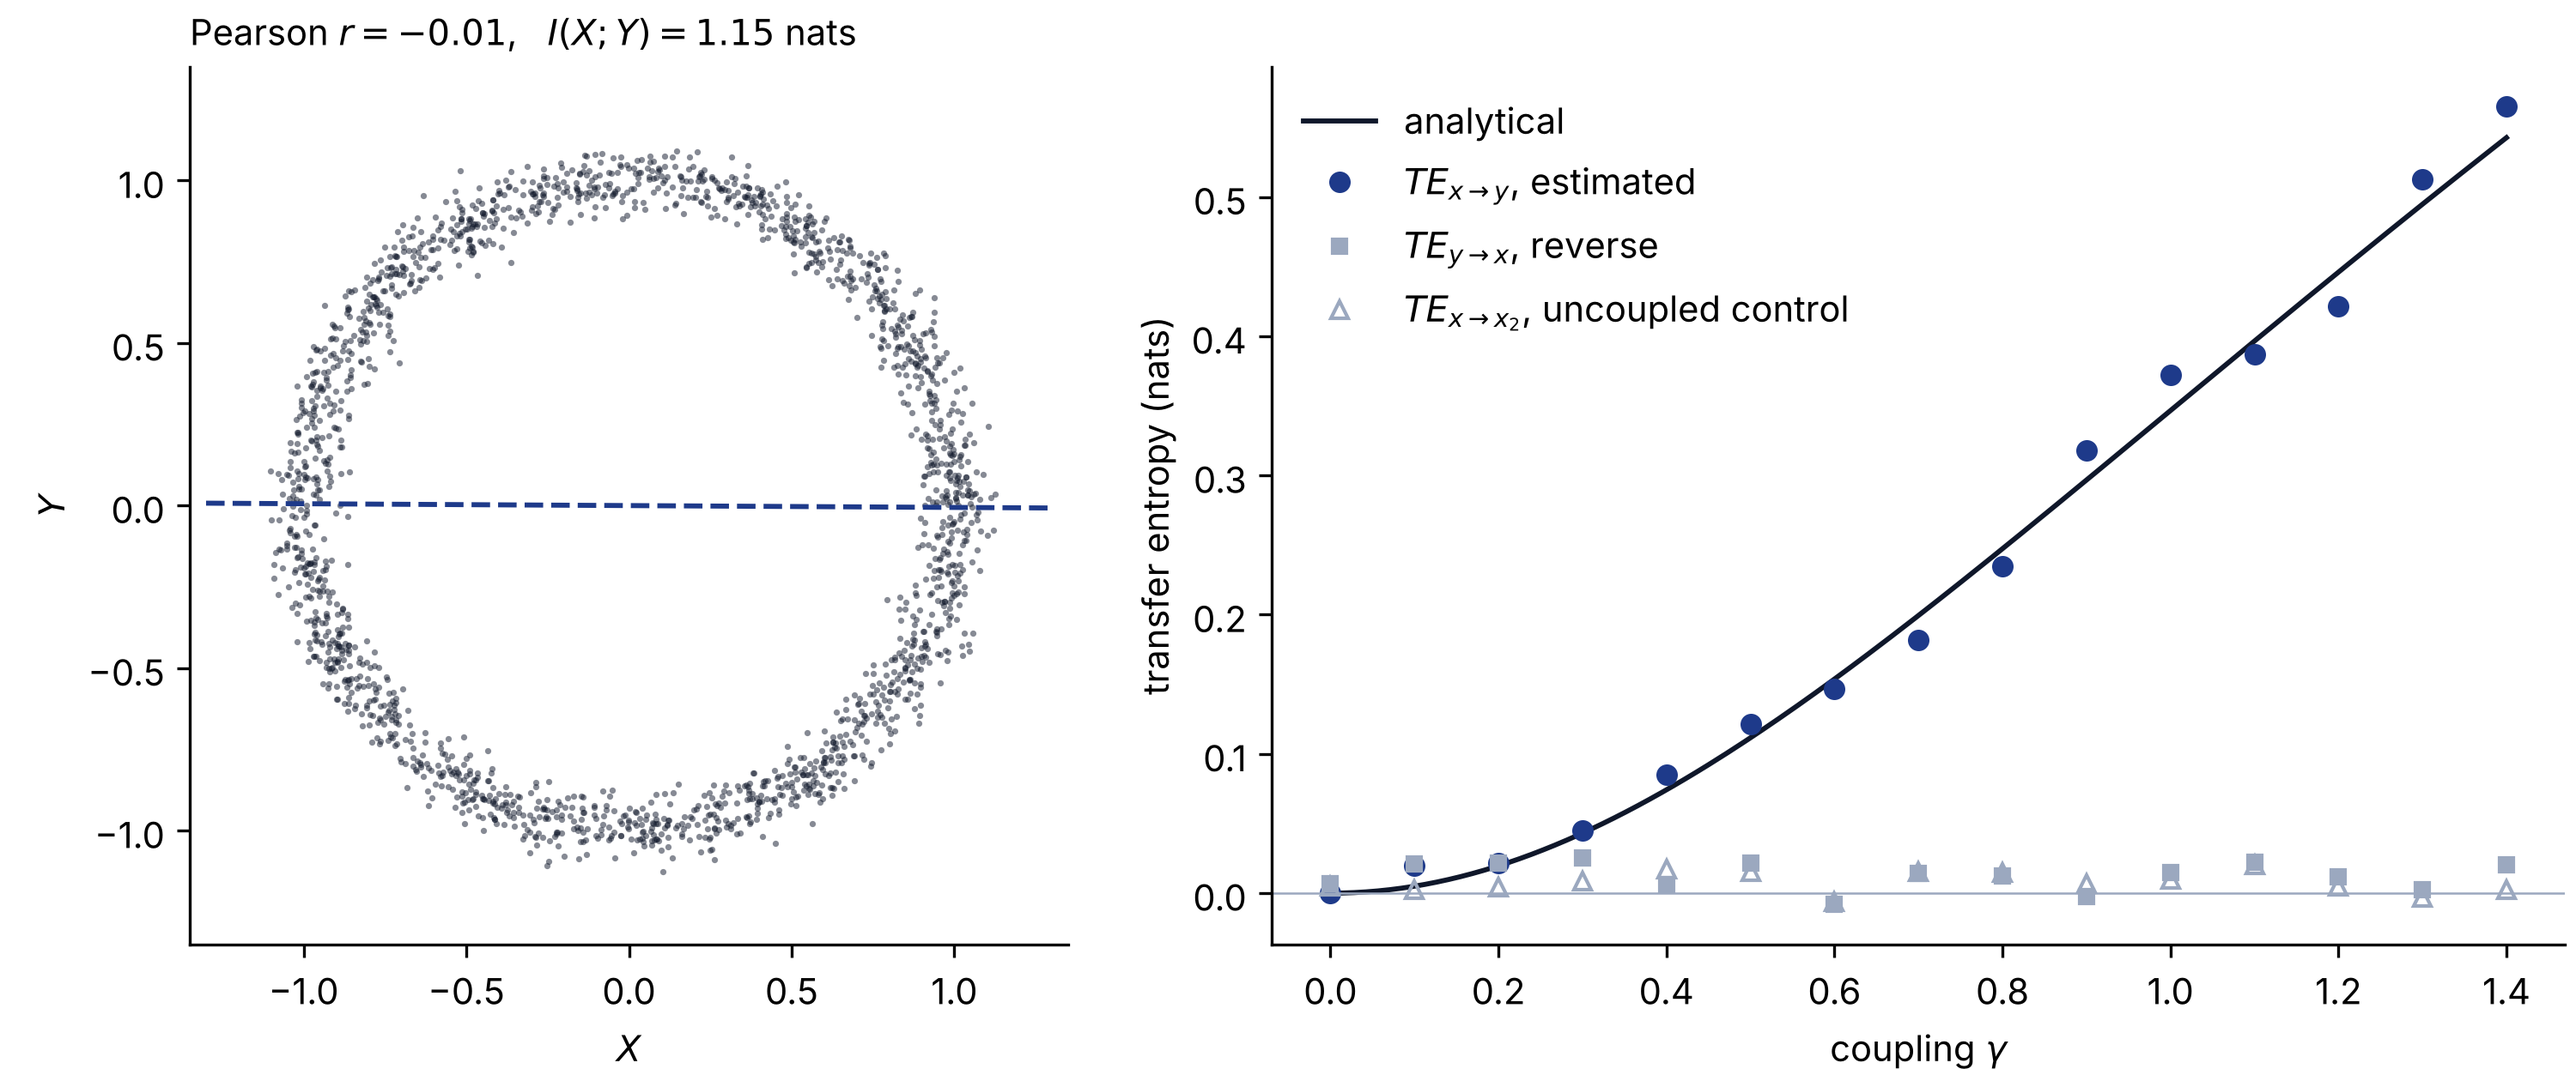
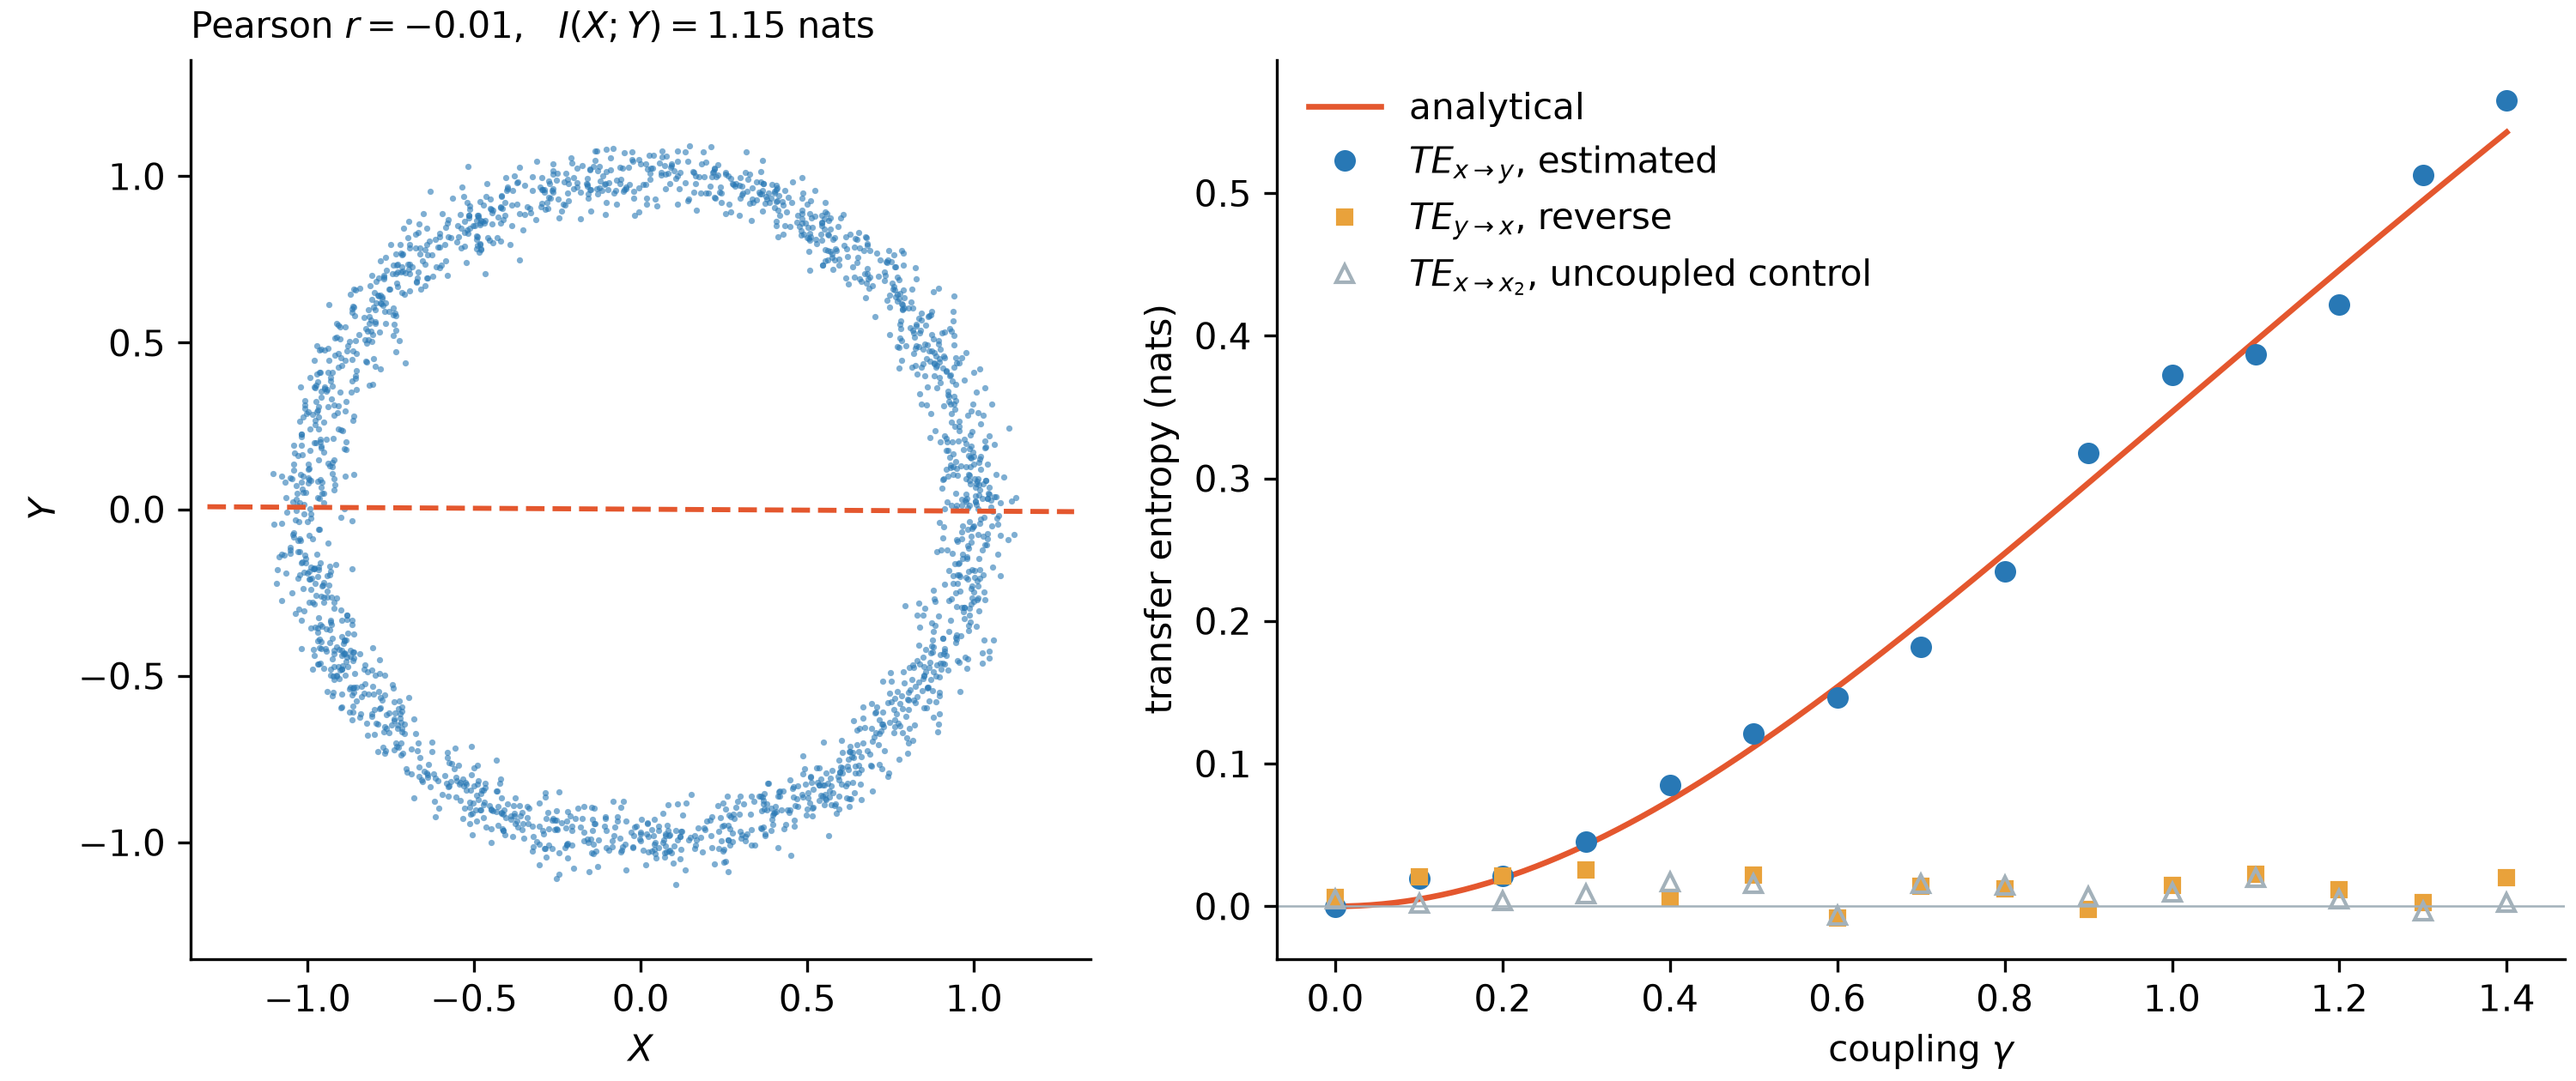
Petrol-blue palette, recoloured plots, Makefile
- Banner and accent move from navy to petrol blue, with matching greys
  in light and dark mode, and a matching favicon.
- Plots use one categorical palette (vermilion, blue, amber) with grey
  for context, following Datawrapper's colour advice; site SVGs, blog
  covers and post figures are regenerated with it.
- Social icons trimmed to GitHub, Scholar, LinkedIn, X, YouTube, Email.
- Makefile (local, build, push, clean) for WSL/Linux, noted in README.

diff --git a/docs/assets/stylesheets/site.css b/docs/assets/stylesheets/site.css
@@ -4,28 +4,36 @@
    ------------------------------------------------------------------ */
 :root,
 [data-md-color-scheme="default"] {
-  --st-bg: #f5f7fa;
-  --st-ink: #0f172a;
-  --st-muted: #4e5a70;
-  --st-line: #d8dee8;
+  --st-bg: #f5f8f9;
+  --st-ink: #13212b;
+  --st-muted: #51606b;
+  --st-line: #d6dee3;
   --st-card: #ffffff;
-  --st-soft: #edf1f6;
-  --st-accent: #1e3a8a;
-  --st-accent-dark: #93b4ff;
+  --st-soft: #ebf1f4;
+  --st-accent: #1d4e6b;
+  --st-accent-dark: #8cc3e0;
   --st-highlight: #c2410c;
+  /* Plot categories: same meaning in every figure. Distinct in lightness as
+     well as hue, so they stay apart for colour-blind readers. */
+  --st-c1: #e4572e;
+  --st-c2: #2878b5;
+  --st-c3: #e9a23b;
   --st-mono: var(--md-code-font-family, "IBM Plex Mono", ui-monospace, monospace);
 }
 
 [data-md-color-scheme="slate"] {
-  --st-bg: #0b1220;
-  --st-ink: #e6ebf4;
-  --st-muted: #9ba8bf;
-  --st-line: #222e45;
-  --st-card: #111a2c;
-  --st-soft: #17223a;
-  --st-accent: #93b4ff;
-  --st-accent-dark: #93b4ff;
+  --st-bg: #0b1820;
+  --st-ink: #e4ecf0;
+  --st-muted: #95a7b2;
+  --st-line: #1f3240;
+  --st-card: #10212d;
+  --st-soft: #152a38;
+  --st-accent: #8cc3e0;
+  --st-accent-dark: #8cc3e0;
   --st-highlight: #fb923c;
+  --st-c1: #ff7a52;
+  --st-c2: #5aa9e6;
+  --st-c3: #f2b85b;
 }
 
 /* Map the tokens onto Material's own variables. */
@@ -147,7 +155,7 @@ body > div[style*="position: fixed"] {
 .md-typeset a {
   text-decoration: none;
 }
-/* Hover keeps the navy and adds an underline, instead of switching hue. */
+/* Hover keeps the accent and adds an underline, instead of switching hue. */
 .md-typeset a:hover {
   color: var(--st-accent);
   text-decoration: underline;
@@ -277,15 +285,15 @@ body > div[style*="position: fixed"] {
    ------------------------------------------------------------------ */
 /* Home banner, pill navigation and introduction */
 .st-banner {
-  background-color: #14275c;
+  background-color: #163e55;
   background-image: radial-gradient(rgba(255, 255, 255, 0.08) 1px, transparent 1.4px),
-    linear-gradient(180deg, #1e3a8a 0%, #0f1f4d 100%);
+    linear-gradient(180deg, #1d4e6b 0%, #0f2e42 100%);
   background-size: 18px 18px, 100% 100%;
   color: #ffffff;
 }
 [data-md-color-scheme="slate"] .st-banner {
   background-image: radial-gradient(rgba(255, 255, 255, 0.06) 1px, transparent 1.4px),
-    linear-gradient(180deg, #172d6b 0%, #0b1220 100%);
+    linear-gradient(180deg, #183f57 0%, #0b1820 100%);
 }
 .st-banner__inner {
   max-width: 38rem;
@@ -307,7 +315,7 @@ body > div[style*="position: fixed"] {
   box-shadow: 0 6px 20px rgba(0, 0, 0, 0.25);
 }
 .st-banner__photo--placeholder {
-  background: #2c4fa3;
+  background: #2b6a8e;
   display: flex;
   align-items: center;
   justify-content: center;
@@ -341,7 +349,7 @@ body > div[style*="position: fixed"] {
   height: 2.2rem;
   border-radius: 50%;
   background: #ffffff;
-  color: #14275c;
+  color: #1d4e6b;
   display: flex;
   align-items: center;
   justify-content: center;
@@ -349,7 +357,7 @@ body > div[style*="position: fixed"] {
 }
 .st-banner__icons a:hover,
 .st-banner__icons a:focus-visible {
-  background: #dbe4ff;
+  background: #d6e8f2;
 }
 .st-banner__icons svg {
   width: 1rem;
@@ -376,7 +384,7 @@ body > div[style*="position: fixed"] {
   background: var(--st-card);
   border: 1px solid var(--st-line);
   border-radius: 999px;
-  box-shadow: 0 6px 18px rgba(15, 23, 42, 0.14);
+  box-shadow: 0 6px 18px rgba(19, 33, 43, 0.14);
 }
 .st-pill a {
   padding: 0.6rem 0.7rem;
@@ -408,7 +416,7 @@ body > div[style*="position: fixed"] {
   background: var(--st-card);
   border: 1px solid var(--st-line);
   border-radius: 999px;
-  box-shadow: 0 6px 18px rgba(15, 23, 42, 0.14);
+  box-shadow: 0 6px 18px rgba(19, 33, 43, 0.14);
   cursor: pointer;
   opacity: 0;
   visibility: hidden;

diff --git a/scripts/post_covers.py b/scripts/post_covers.py
@@ -6,7 +6,7 @@ Motivation
 Thumbnails for the list of posts on the Blog page. Each post names its
 cover in the front matter, as `cover: img/<name>-cover.png`,
 and the list shows it next to the title. The goal is one small, text-free
-picture per post that matches the navy banner of the site. It is pursued by
+picture per post that matches the petrol-blue banner of the site. It is pursued by
 drawing each post's central object on the banner gradient and dot texture.
 
 What it measures
@@ -37,19 +37,21 @@ from matplotlib.patches import FancyArrowPatch
 
 from euler_maruyama_sho import euler_maruyama_sho
 
-NAVY = "#1e3a8a"
-NAVY_DEEP = "#0f1f4d"
-LIGHT = "#93b4ff"
+PETROL = "#1d4e6b"
+PETROL_DEEP = "#0f2e42"
+LIGHT = "#ff7a52"
+SKY = "#8cc3e0"
+AMBER = "#f2b85b"
 OUT_DIR = Path(__file__).resolve().parents[1] / "docs" / "writing" / "posts" / "img"
 DIGIT = Path(__file__).resolve().parent / "data" / "mnist-test-00030.png"
 SIZE = (4.0, 3.0)  # 4:3, the aspect the Blog list crops to
 
 
 def banner_axes(fig):
-    """Navy diagonal gradient with a faint dot grid, and a clear axes on top."""
+    """Petrol-blue diagonal gradient with a faint dot grid, and a clear axes on top."""
     bg = fig.add_axes([0, 0, 1, 1])
     u, v = np.meshgrid(np.linspace(0, 1, 400), np.linspace(0, 1, 300))
-    cmap = LinearSegmentedColormap.from_list("banner", [NAVY, NAVY_DEEP])
+    cmap = LinearSegmentedColormap.from_list("banner", [PETROL, PETROL_DEEP])
     bg.imshow(0.5 * (u + v), cmap=cmap, extent=(0, 4, 0, 3), aspect="auto")
     gx, gy = np.meshgrid(np.arange(0.1, 4, 0.2), np.arange(0.1, 3, 0.2))
     bg.scatter(gx, gy, s=0.6, color="white", alpha=0.12, linewidths=0)
@@ -94,7 +96,7 @@ def cover_infomeasure(out, dpi, seed=0):
 
     fig = plt.figure(figsize=SIZE)
     ax = banner_axes(fig)
-    ax.scatter(x, y, s=6, color="white", alpha=0.8, linewidths=0)
+    ax.scatter(x, y, s=6, color=SKY, alpha=0.85, linewidths=0)
     xs = np.array([-1.9, 1.9])
     ax.plot(xs, slope * xs + intercept, color=LIGHT, lw=2.6, ls=(0, (3, 2)))
     ax.set_xlim(-1.9, 1.9)
@@ -110,6 +112,8 @@ def cover_lenet(out, dpi, cell=12, gap=2):
     n = digit.shape[0]
     white = LinearSegmentedColormap.from_list("ink", [(1, 1, 1, 0), (1, 1, 1, 1)])
     white.set_bad((0, 0, 0, 0))
+    amber = LinearSegmentedColormap.from_list("amber", [(1, 1, 1, 0), AMBER])
+    amber.set_bad((0, 0, 0, 0))
 
     # Every pixel becomes a cell x cell block with a transparent gap around it.
     # Empty pixels keep a faint floor so the 28 x 28 grid stays visible.
@@ -125,7 +129,7 @@ def cover_lenet(out, dpi, cell=12, gap=2):
     left = fig.add_axes([0.04, 0.5 - side / 2, 0.4, side])
     right = fig.add_axes([0.56, 0.5 - side / 2, 0.4, side])
     left.imshow(digit, cmap=white, interpolation="bicubic", vmin=0, vmax=1)
-    right.imshow(grid, cmap=white, interpolation="nearest", vmin=0, vmax=1)
+    right.imshow(grid, cmap=amber, interpolation="nearest", vmin=0, vmax=1)
     for a in (left, right):
         a.set_facecolor("none")
         a.axis("off")

diff --git a/scripts/euler_maruyama_sho.py b/scripts/euler_maruyama_sho.py
@@ -35,9 +35,13 @@ from pathlib import Path
 import matplotlib.pyplot as plt
 import numpy as np
 
-INK = "#0f172a"
-MUTED = "#9ba8bf"
-ACCENT = "#1e3a8a"
+INK = "#13212b"
+MUTED = "#a3b1ba"
+ACCENT = "#e4572e"
+# Same roles as the site figures: grey for reference, blue for simulated or
+# estimated data, vermilion for theory, amber for a secondary series.
+BLUE = "#2878b5"
+AMBER = "#e9a23b"
 DEFAULT_OUT = (
     Path(__file__).resolve().parents[1]
     / "docs"
@@ -111,25 +115,25 @@ def main():
     )
 
     ax["x"].plot(t, x_det[:, 0], color=MUTED, lw=1.0, label=r"$\sigma = 0$")
-    ax["x"].plot(t, x_one, color=INK, lw=1.0, label=rf"$\sigma = {args.sigma}$")
+    ax["x"].plot(t, x_one, color=BLUE, lw=1.0, label=rf"$\sigma = {args.sigma}$")
     ax["x"].set_ylabel(r"$x$")
     ax["x"].legend(loc="lower right", bbox_to_anchor=(1.0, 1.0), frameon=False, ncols=2)
     ax["x"].tick_params(labelbottom=False)
 
     ax["v"].plot(t, v_det[:, 0], color=MUTED, lw=1.0)
-    ax["v"].plot(t, v_one, color=ACCENT, lw=0.8)
+    ax["v"].plot(t, v_one, color=BLUE, lw=0.8)
     ax["v"].set_ylabel(r"$v$")
     ax["v"].set_xlabel(r"time $t$")
     ax["v"].sharex(ax["x"])
 
     ax["phase"].plot(x_det[:, 0], v_det[:, 0], color=MUTED, lw=1.2)
-    ax["phase"].plot(x_one, v_one, color=ACCENT, lw=0.5, alpha=0.9)
+    ax["phase"].plot(x_one, v_one, color=BLUE, lw=0.5, alpha=0.9)
     ax["phase"].set_xlabel(r"$x$")
     ax["phase"].set_ylabel(r"$v$")
     ax["phase"].set_title("phase plane", loc="left", fontsize=10)
 
     ax["E"].plot(t, e_det, color=MUTED, lw=1.0, label=r"$\sigma = 0$, one path")
-    ax["E"].plot(t, e_mean, color=INK, lw=1.4, label=rf"mean over {args.paths} paths")
+    ax["E"].plot(t, e_mean, color=BLUE, lw=1.6, label=rf"mean over {args.paths} paths")
     ax["E"].plot(
         t,
         e_theory,

diff --git a/scripts/infomeasure_checks.py b/scripts/infomeasure_checks.py
@@ -37,9 +37,13 @@ import infomeasure as im
 import matplotlib.pyplot as plt
 import numpy as np
 
-INK = "#0f172a"
-MUTED = "#9ba8bf"
-ACCENT = "#1e3a8a"
+INK = "#13212b"
+MUTED = "#a3b1ba"
+ACCENT = "#e4572e"
+# Same roles as the site figures: grey for reference, blue for simulated or
+# estimated data, vermilion for theory, amber for a secondary series.
+BLUE = "#2878b5"
+AMBER = "#e9a23b"
 DEFAULT_OUT = (
     Path(__file__).resolve().parents[1]
     / "docs"
@@ -120,7 +124,7 @@ def main():
     )
 
     a = ax["circle"]
-    a.scatter(cx, cy, s=3, color=INK, alpha=0.5, linewidths=0)
+    a.scatter(cx, cy, s=3, color=BLUE, alpha=0.6, linewidths=0)
     xs = np.array([-1.3, 1.3])
     a.plot(xs, slope * xs + intercept, color=ACCENT, lw=1.4, ls="--")
     a.set_aspect("equal")
@@ -135,16 +139,16 @@ def main():
     )
 
     a = ax["te"]
-    a.plot(g_fine, te_theory, color=INK, lw=1.4, label="analytical")
+    a.plot(g_fine, te_theory, color=ACCENT, lw=1.6, label="analytical")
     a.plot(
         gammas,
         te_xy,
         "o",
-        color=ACCENT,
+        color=BLUE,
         ms=5,
         label=r"$TE_{x \to y}$, estimated",
     )
-    a.plot(gammas, te_yx, "s", color=MUTED, ms=4, label=r"$TE_{y \to x}$, reverse")
+    a.plot(gammas, te_yx, "s", color=AMBER, ms=4, label=r"$TE_{y \to x}$, reverse")
     a.plot(
         gammas,
         te_ctrl,

diff --git a/README.md b/README.md
@@ -7,6 +7,21 @@ search, a **Blog**, and data files for everything that repeats. Zensical reads
 
 ## Preview locally
 
+With `make` (Linux or WSL). The first run creates `.venv` and installs
+`requirements.txt`, and reinstalls only when that file changes:
+
+```bash
+make local                       # http://localhost:8000, reloads on save
+make build                       # the same strict check the deploy runs
+make push MSG="Describe change"  # build, commit ALL changes, push the current branch
+make clean                       # remove site/ and .cache/
+```
+
+`make push` stops before committing if the build fails, and uses
+"Update site" when `MSG` is left out.
+
+Or by hand:
+
 ```bash
 python3 -m venv .venv            # once: a private Python for this project
 source .venv/bin/activate        # every new terminal; `deactivate` leaves it
